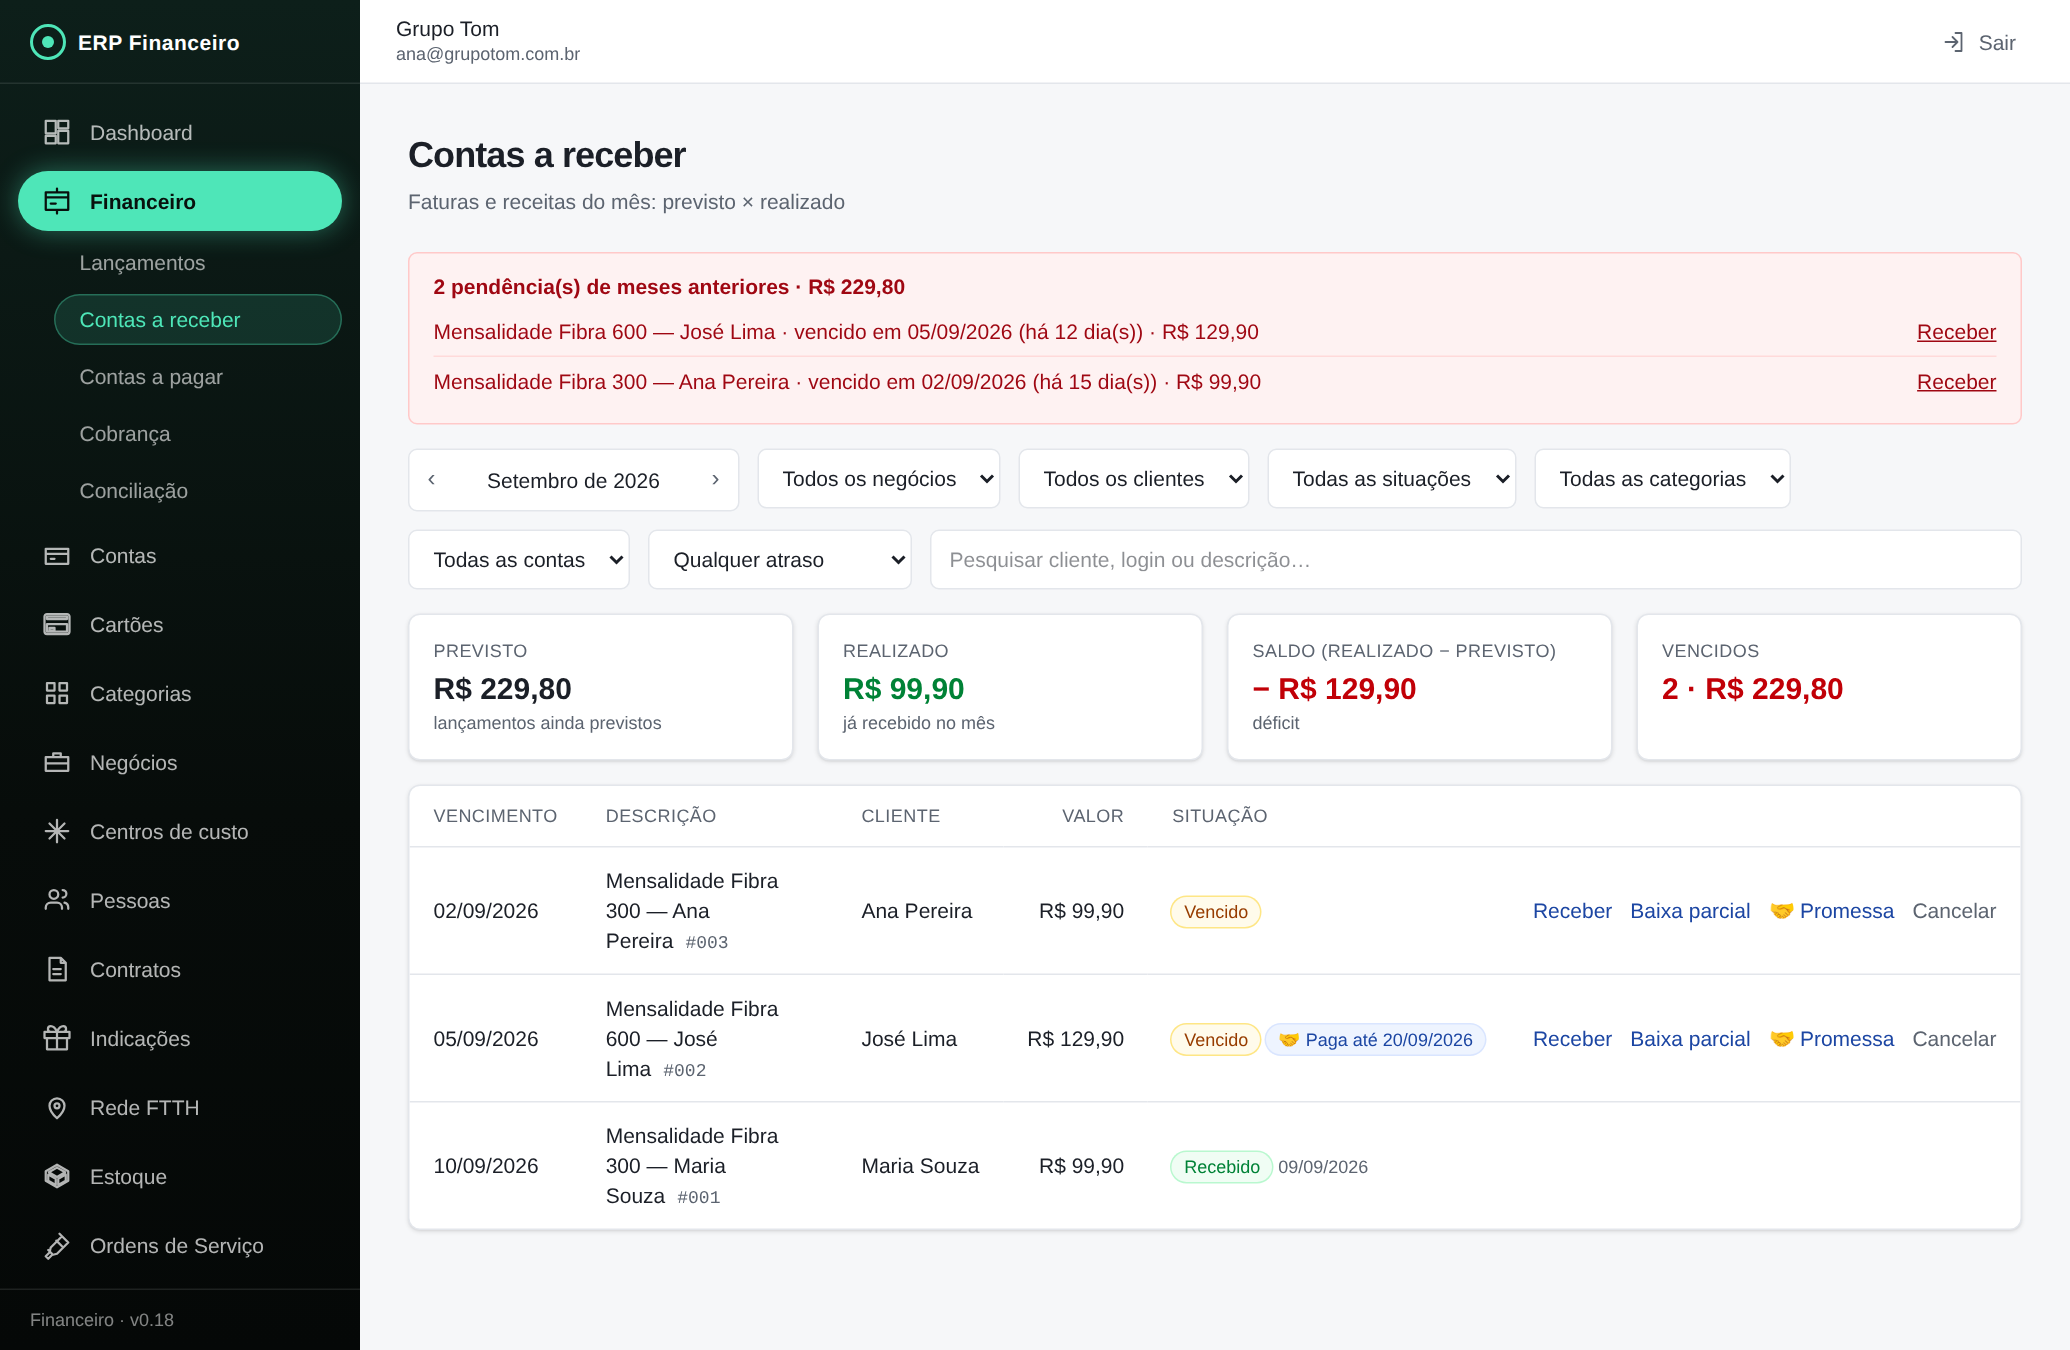
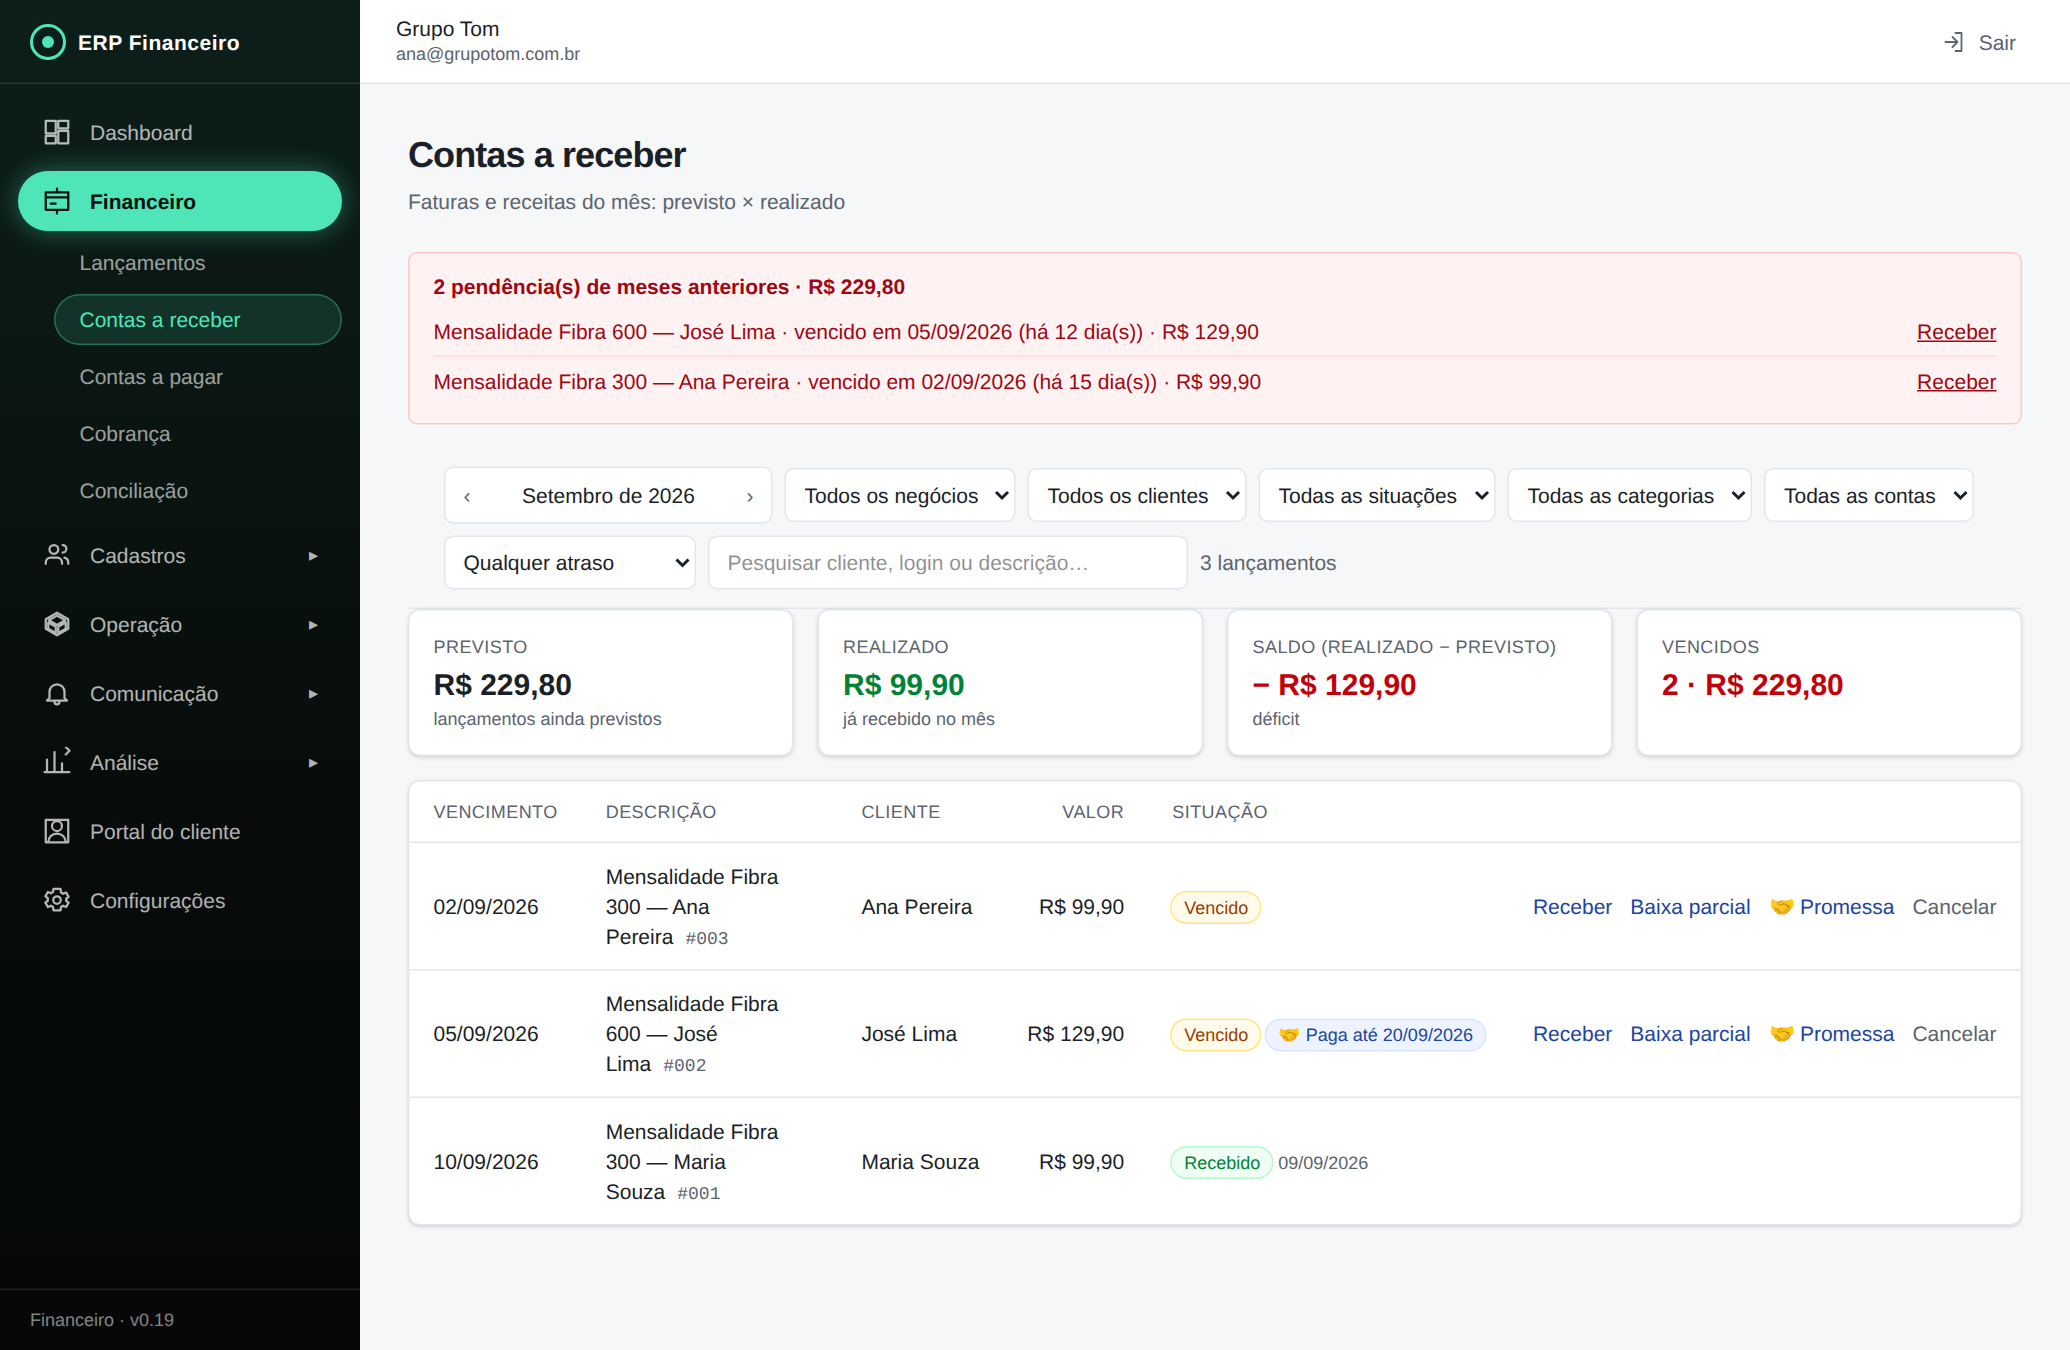
financeiro: Lançamentos e Contas a receber/pagar usam a barra de filtros padrão
Troca os <select>/<input> avulsos por BarraFiltros/CampoBusca/SelectFiltro/
ContagemFiltro (já usados em Cobrança, Conciliação e no resto do app) —
mesmo visual, mesmo comportamento, e o contador "N de M" chega em
Lançamentos, que não tinha.

Prints das três telas regerados.

Claude-Session: https://claude.ai/code/session_01LvKVVJXHUTGGnyzXpwt5fU

diff --git a/app/src/modules/lancamentos/pages/LancamentosPage.tsx b/app/src/modules/lancamentos/pages/LancamentosPage.tsx
@@ -1,6 +1,7 @@
 import { useEffect, useMemo, useState } from 'react'
 import { useSearchParams } from 'react-router'
 import { CabecalhoPagina } from '../../../core/ui/CabecalhoPagina'
+import { BarraFiltros, CampoBusca, ContagemFiltro, SelectFiltro } from '../../../core/ui/Filtros'
 import { Cartao } from '../../../core/ui/Cartao'
 import { Botao } from '../../../core/ui/Botao'
 import { Alerta } from '../../../core/ui/Alerta'
@@ -228,7 +229,7 @@ export function LancamentosPage() {
         <div className="mb-4"><Alerta tipo="info" titulo="Cadastre uma conta antes">Lançamentos precisam de uma conta. Crie sua primeira conta no menu Contas.</Alerta></div>
       )}
 
-      <div className="mb-3 flex flex-wrap items-start gap-3">
+      <BarraFiltros>
         <SeletorMes mes={mes} aoMudar={setMes} />
         {mesFechado ? (
           <span className="flex items-center gap-2 text-sm">
@@ -240,56 +241,50 @@ export function LancamentosPage() {
           <button type="button" className="text-xs font-medium text-brand-700 hover:underline"
             onClick={() => { if (window.confirm('Fechar o mês? Nada efetivado dentro dele poderá ser alterado, cancelado ou excluído (cobranças em aberto continuam baixáveis).')) fecharMes.mutate({ competencia: mes }) }}>🔒 Fechar mês</button>
         ) : null}
-        <select aria-label="Filtrar por tipo" value={filtroTipo} onChange={(e) => setFiltroTipo(e.target.value as TipoLancamento | '')} className="h-10 rounded-md border border-line bg-white px-3 text-sm">
+        <SelectFiltro rotulo="Filtrar por tipo" valor={filtroTipo} aoMudar={(v) => setFiltroTipo(v as TipoLancamento | '')}>
           <option value="">Todos os tipos</option>
           <option value="receita">Receitas</option>
           <option value="despesa">Despesas</option>
           <option value="transferencia">Transferências</option>
-        </select>
-        <select aria-label="Filtrar por status" value={filtroStatus} onChange={(e) => setFiltroStatus(e.target.value as StatusLancamento | '' | 'ativos')} className="h-10 rounded-md border border-line bg-white px-3 text-sm">
+        </SelectFiltro>
+        <SelectFiltro rotulo="Filtrar por status" valor={filtroStatus} aoMudar={(v) => setFiltroStatus(v as StatusLancamento | '' | 'ativos')}>
           <option value="ativos">Ativos (sem cancelados)</option>
           <option value="">Todos os status</option>
           <option value="efetivado">Efetivados</option>
           <option value="previsto">Previstos</option>
           <option value="cancelado">Cancelados</option>
-        </select>
-      </div>
-      <div className="mb-4 flex flex-wrap items-center gap-3">
+        </SelectFiltro>
+      </BarraFiltros>
+      <BarraFiltros>
         {temNegocios && (
-          <select aria-label="Filtrar por negócio" value={filtroNegocio} onChange={(e) => setFiltroNegocio(e.target.value)} className="h-10 rounded-md border border-line bg-white px-3 text-sm">
+          <SelectFiltro rotulo="Filtrar por negócio" valor={filtroNegocio} aoMudar={setFiltroNegocio}>
             <option value="">Todos os negócios</option>
             <option value="pessoal">{ROTULO_PESSOAL}</option>
             {(negocios.data ?? []).map((n) => <option key={n.id} value={n.id}>{n.nome}</option>)}
-          </select>
+          </SelectFiltro>
         )}
-        <select aria-label="Filtrar por categoria" value={filtroCategoria} onChange={(e) => setFiltroCategoria(e.target.value)} className="h-10 rounded-md border border-line bg-white px-3 text-sm">
+        <SelectFiltro rotulo="Filtrar por categoria" valor={filtroCategoria} aoMudar={setFiltroCategoria}>
           <option value="">Todas as categorias</option>
           {(categorias.data ?? []).filter((c) => c.ativo).map((c) => <option key={c.id} value={c.id}>{c.nome}</option>)}
-        </select>
-        <select aria-label="Filtrar por conta" value={filtroConta} onChange={(e) => setFiltroConta(e.target.value)} className="h-10 rounded-md border border-line bg-white px-3 text-sm">
+        </SelectFiltro>
+        <SelectFiltro rotulo="Filtrar por conta" valor={filtroConta} aoMudar={setFiltroConta}>
           <option value="">Todas as contas</option>
           {(contas.data ?? []).filter((c) => c.ativo).map((c) => <option key={c.id} value={c.id}>{c.nome}</option>)}
-        </select>
+        </SelectFiltro>
         {(centros.data ?? []).length > 0 && (
-          <select aria-label="Filtrar por centro de custo" value={filtroCentro} onChange={(e) => setFiltroCentro(e.target.value)} className="h-10 rounded-md border border-line bg-white px-3 text-sm">
+          <SelectFiltro rotulo="Filtrar por centro de custo" valor={filtroCentro} aoMudar={setFiltroCentro}>
             <option value="">Todos os centros</option>
             <option value="geral">Geral (sem centro)</option>
             {(centros.data ?? []).filter((c) => c.ativo).map((c) => <option key={c.id} value={c.id}>{c.nome}</option>)}
-          </select>
+          </SelectFiltro>
         )}
-        <input
-          type="search"
-          aria-label="Pesquisar lançamentos"
-          placeholder="Pesquisar por descrição, conta, categoria, negócio ou pessoa…"
-          value={busca}
-          onChange={(e) => setBusca(e.target.value)}
-          className="h-10 min-w-48 flex-1 rounded-md border border-line bg-white px-3 text-sm"
-        />
+        <CampoBusca valor={busca} aoMudar={setBusca} rotulo="Pesquisar por descrição, conta, categoria, negócio ou pessoa…" />
+        <ContagemFiltro visiveis={linhasView.length} total={(lancamentos.data ?? []).length + (projecaoContratos.data ?? []).length} singular="lançamento" plural="lançamentos" />
         <span className="w-full text-sm text-ink-muted tabular-nums sm:ml-auto sm:w-auto sm:text-right">
           <span className="block">Realizado: <span className="font-medium text-green-700">{formatarMoeda(totais.receitasReal)}</span> · <span className="font-medium text-red-700">{formatarMoeda(totais.despesasReal)}</span></span>
           <span className="block text-xs">Pendente: <span className="font-medium text-green-700">{formatarMoeda(totais.receitasPend)}</span> · <span className="font-medium text-red-700">{formatarMoeda(totais.despesasPend)}</span></span>
         </span>
-      </div>
+      </BarraFiltros>
 
       {carregando && <Carregando texto="Carregando lançamentos…" />}
       {erroCarga && <Alerta tipo="erro" titulo="Não foi possível carregar">{mensagemDeErro(erroCarga)}</Alerta>}

diff --git a/app/src/modules/financeiro/pages/ContasPage.tsx b/app/src/modules/financeiro/pages/ContasPage.tsx
@@ -1,6 +1,7 @@
 import { useMemo, useState } from 'react'
 import { Link } from 'react-router'
 import { CabecalhoPagina } from '../../../core/ui/CabecalhoPagina'
+import { BarraFiltros, CampoBusca, ContagemFiltro, SelectFiltro } from '../../../core/ui/Filtros'
 import { Cartao } from '../../../core/ui/Cartao'
 import { Botao } from '../../../core/ui/Botao'
 import { Alerta } from '../../../core/ui/Alerta'
@@ -226,46 +227,40 @@ function ContasPage({ tipo }: { tipo: 'receita' | 'despesa' }) {
     <>
       <CabecalhoPagina titulo={receber ? 'Contas a receber' : 'Contas a pagar'} descricao={receber ? 'Faturas e receitas do mês: previsto × realizado' : 'Compromissos com fornecedores: previsto × realizado'} />
       <div className="mb-4"><PendenciasAnteriores tipo={tipo} aoAbrirAcao={(l) => setAcao({ tipo: 'baixa', l })} /></div>
-      <div className="mb-4 flex flex-wrap items-start gap-3">
+      <BarraFiltros>
         <SeletorMes mes={mes} aoMudar={setMes} />
         {(negocios.data ?? []).length > 0 && (
-          <select aria-label="Filtrar por negócio" value={filtroNegocio} onChange={(e) => setFiltroNegocio(e.target.value)} className="h-10 rounded-md border border-line bg-white px-3 text-sm">
+          <SelectFiltro rotulo="Filtrar por negócio" valor={filtroNegocio} aoMudar={setFiltroNegocio}>
             <option value="">Todos os negócios</option>
             <option value="pessoal">{ROTULO_PESSOAL}</option>
             {(negocios.data ?? []).filter((n) => n.ativo).map((n) => <option key={n.id} value={n.id}>{n.nome}</option>)}
-          </select>
+          </SelectFiltro>
         )}
-        <select aria-label={receber ? 'Filtrar por cliente' : 'Filtrar por fornecedor'} value={filtroPessoa} onChange={(e) => setFiltroPessoa(e.target.value)} className="h-10 rounded-md border border-line bg-white px-3 text-sm">
+        <SelectFiltro rotulo={receber ? 'Filtrar por cliente' : 'Filtrar por fornecedor'} valor={filtroPessoa} aoMudar={setFiltroPessoa}>
           <option value="">{receber ? 'Todos os clientes' : 'Todos os fornecedores'}</option>
           {pessoasComLanc.map((p) => <option key={p.id} value={p.id}>{p.nome}</option>)}
-        </select>
-        <select aria-label="Filtrar por situação" value={filtroSituacao} onChange={(e) => setFiltroSituacao(e.target.value as Situacao | '')} className="h-10 rounded-md border border-line bg-white px-3 text-sm">
+        </SelectFiltro>
+        <SelectFiltro rotulo="Filtrar por situação" valor={filtroSituacao} aoMudar={(v) => setFiltroSituacao(v as Situacao | '')}>
           <option value="">Todas as situações</option><option value="aberto">Em aberto</option><option value="vencido">Vencidos</option><option value="pago">{receber ? 'Recebidos' : 'Pagos'}</option>
-        </select>
-        <select aria-label="Filtrar por categoria" value={filtroCategoria} onChange={(e) => setFiltroCategoria(e.target.value)} className="h-10 rounded-md border border-line bg-white px-3 text-sm">
+        </SelectFiltro>
+        <SelectFiltro rotulo="Filtrar por categoria" valor={filtroCategoria} aoMudar={setFiltroCategoria}>
           <option value="">Todas as categorias</option>
           {(categorias.data ?? []).filter((c) => c.ativo && c.tipo === tipo).map((c) => <option key={c.id} value={c.id}>{c.nome}</option>)}
-        </select>
-        <select aria-label="Filtrar por conta" value={filtroConta} onChange={(e) => setFiltroConta(e.target.value)} className="h-10 rounded-md border border-line bg-white px-3 text-sm">
+        </SelectFiltro>
+        <SelectFiltro rotulo="Filtrar por conta" valor={filtroConta} aoMudar={setFiltroConta}>
           <option value="">Todas as contas</option>
           {(contas.data ?? []).filter((c) => c.ativo).map((c) => <option key={c.id} value={c.id}>{c.nome}</option>)}
-        </select>
-        <select aria-label="Filtrar por dias de atraso" value={filtroAtraso} onChange={(e) => setFiltroAtraso(e.target.value)} className="h-10 rounded-md border border-line bg-white px-3 text-sm">
+        </SelectFiltro>
+        <SelectFiltro rotulo="Filtrar por dias de atraso" valor={filtroAtraso} aoMudar={setFiltroAtraso}>
           <option value="">Qualquer atraso</option>
           <option value="30">Vencidos até 30 dias</option>
           <option value="60">31 a 60 dias</option>
           <option value="90">61 a 90 dias</option>
           <option value="mais">Mais de 90 dias</option>
-        </select>
-        <input
-          type="search"
-          aria-label="Pesquisar"
-          placeholder={receber ? 'Pesquisar cliente, login ou descrição…' : 'Pesquisar fornecedor ou descrição…'}
-          value={busca}
-          onChange={(e) => setBusca(e.target.value)}
-          className="h-10 min-w-56 flex-1 rounded-md border border-line bg-white px-3 text-sm outline-none focus:border-brand-600"
-        />
-      </div>
+        </SelectFiltro>
+        <CampoBusca valor={busca} aoMudar={setBusca} rotulo={receber ? 'Pesquisar cliente, login ou descrição…' : 'Pesquisar fornecedor ou descrição…'} />
+        <ContagemFiltro visiveis={lista.length} total={base.length} singular="lançamento" plural="lançamentos" />
+      </BarraFiltros>
       <div className="mb-4 grid gap-4 sm:grid-cols-2 lg:grid-cols-4">
         <Indicador rotulo="Previsto" valor={formatarMoeda(previsto)} ajuda="lançamentos ainda previstos" />
         <Indicador rotulo="Realizado" valor={formatarMoeda(realizado)} tom="ok" ajuda={receber ? 'já recebido no mês' : 'já pago no mês'} />
